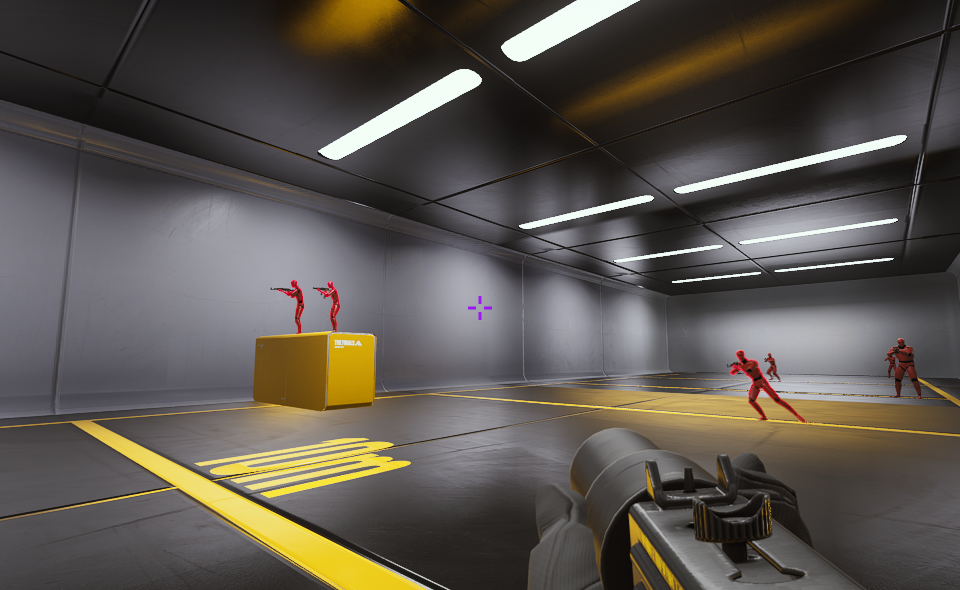
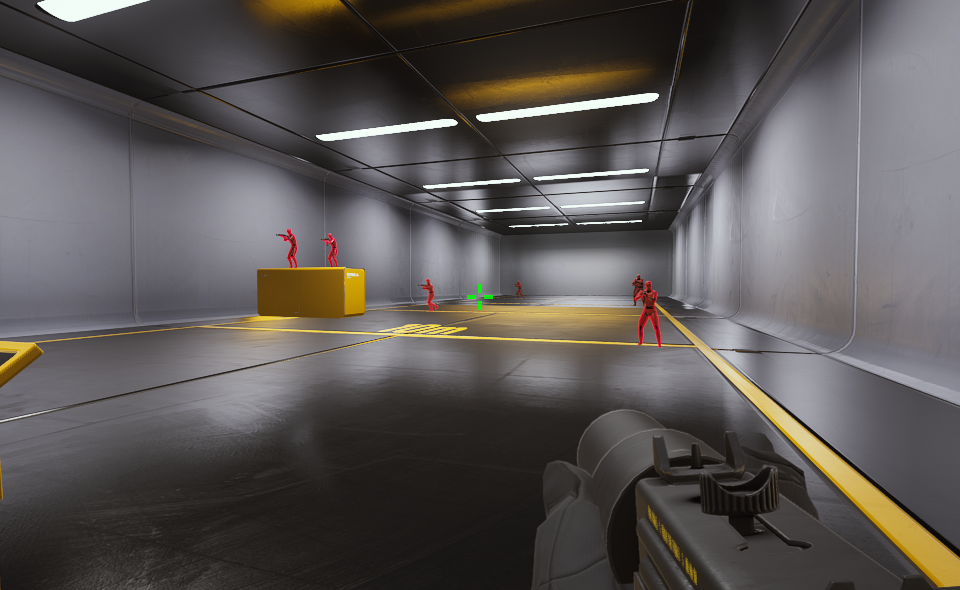
v0.2.0 prep: Fixed crosshair offset not working properly when output is set to automatic, removed subtext explaining what the automatic output option does from the GUI, and changed the readme slightly.

diff --git a/crosshair-gui.py b/crosshair-gui.py
@@ -131,6 +131,14 @@ class CrosshairSettingsWindow(Gtk.ApplicationWindow):
         finally:
             self._loading = False
 
+        # _get_monitor_geometry()'s "automatic" fallback asks which
+        # monitor *this window* is on, which GTK can't answer until
+        # we're realized -- at __init__ time (above) it fell back to
+        # monitor 0. Once realize fires, recompute the offset sliders
+        # against the real answer so a saved non-zero offset displays
+        # correctly instead of whatever monitor-0's resolution implied.
+        self.connect("realize", self._on_realize_refresh_offsets)
+
         self._refresh_status()
         if not self.socket_path.exists():
             # Quality-of-life: start the overlay automatically when you
@@ -280,15 +288,6 @@ class CrosshairSettingsWindow(Gtk.ApplicationWindow):
         self.output_dropdown = Gtk.DropDown(model=self._build_output_model())
         self._connect_signal(self.output_dropdown, "notify::selected", self._on_output_changed)
         box.append(self._labeled_row("Output", self.output_dropdown))
-
-        note = Gtk.Label(
-            label="\"Automatic\" follows whatever the compositor picks "
-            "(usually your primary/current monitor).",
-            wrap=True,
-        )
-        note.add_css_class("dim-label")
-        note.set_halign(Gtk.Align.START)
-        box.append(note)
         return box
 
     def _build_output_model(self):
@@ -485,12 +484,28 @@ class CrosshairSettingsWindow(Gtk.ApplicationWindow):
 
         if target is None:
             # "Automatic" (or a named output that isn't currently
-            # connected): there's no reliable way from here to ask the
-            # compositor which monitor is "current/primary", so we fall
-            # back to the first one GTK reports. Good enough for the
-            # centering math in the common case; if your primary output
-            # isn't first in this list, pin a specific output above to
-            # get exact centering on it.
+            # connected): crosshaird.py's own automatic case never
+            # calls LayerShell.set_monitor() at all (see _bind_output),
+            # so the surface just lands on whatever the compositor
+            # treats as its default/focused output. GTK4 has no public
+            # "primary output" query on Wayland, so we can't ask that
+            # question directly -- but this settings window is itself
+            # an ordinary toplevel, and the compositor puts *it*
+            # somewhere too, almost always the same
+            # currently-focused/default output the overlay will end up
+            # on. So: ask which monitor our own surface is on and use
+            # that as the stand-in for "automatic".
+            surface = self.get_surface() if hasattr(self, "get_surface") else None
+            if surface is not None:
+                target = display.get_monitor_at_surface(surface)
+
+        if target is None:
+            # Window not realized yet (e.g. called before the first
+            # "realize" signal), or get_monitor_at_surface came back
+            # empty -- fall back to the first monitor GTK reports.
+            # Good enough to avoid crashing; the geometry gets
+            # recomputed (and corrected) as soon as the window is
+            # shown, via the "realize"/"map" handlers.
             target = monitors.get_item(0)
 
         rect = target.get_geometry()
@@ -559,6 +574,19 @@ class CrosshairSettingsWindow(Gtk.ApplicationWindow):
         mon_w, mon_h = geo
         self.cfg["crosshair"]["offset_x"] = int(round((mon_w - size) / 2.0 + self._rel_offset_x))
         self.cfg["crosshair"]["offset_y"] = int(round((mon_h - size) / 2.0 + self._rel_offset_y))
+
+    def _on_realize_refresh_offsets(self, *_args):
+        """Re-derive the relative-offset sliders now that this window's
+        own monitor (our stand-in for "automatic") is knowable.
+
+        Purely a display refresh: it doesn't touch self.cfg, so it
+        can't overwrite a good saved config even if something about
+        this guess is still off.
+        """
+        rel_x, rel_y = self._relative_offsets_from_raw()
+        self._rel_offset_x, self._rel_offset_y = rel_x, rel_y
+        self._set_widget_silently(self.offset_x_adj, lambda: self.offset_x_adj.set_value(rel_x))
+        self._set_widget_silently(self.offset_y_adj, lambda: self.offset_y_adj.set_value(rel_y))
 
     # -- change handlers --------------------------------------------------
 

diff --git a/README.md b/README.md
@@ -79,7 +79,7 @@ crosshairctl hide
 crosshairctl reload    # re-read config.toml and apply changes
 crosshairctl quit
 ```
-**KDE Plasma:** System Settings → Shortcuts → Custom Shortcuts → add a new
+**KDE Plasma:** System Settings -> Shortcuts -> Custom Shortcuts -> add a new
 one that runs `crosshairctl toggle`.
 **Other compositors:** bind it however you'd normally bind a command to a
 key (e.g. in your Hyprland config: `bind = $mainMod, X, exec, crosshairctl toggle`).
